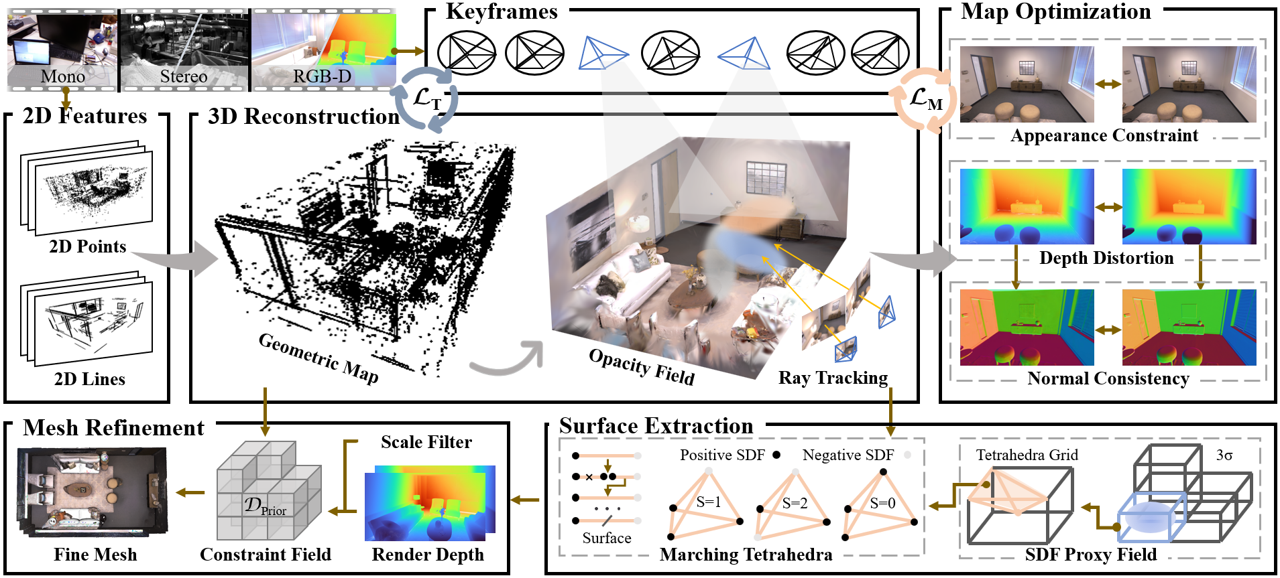
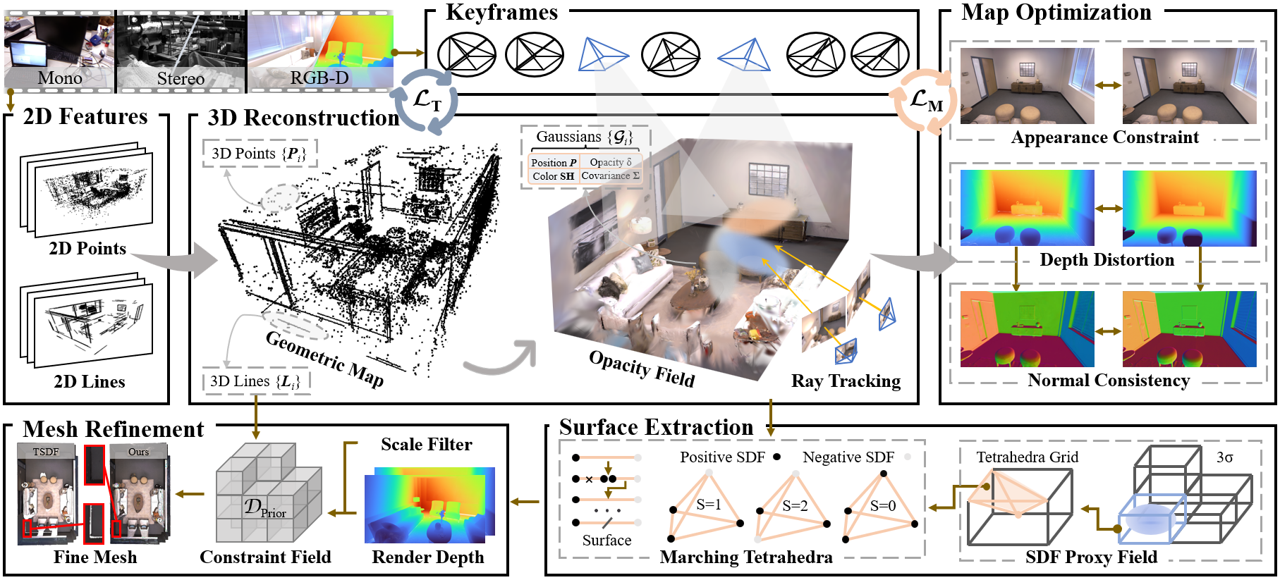
update gif

diff --git a/index.html b/index.html
@@ -543,7 +543,7 @@
             
             .image-row img {
                 flex: 1; /* 等分宽度 */
-                height: 200px; /* 固定高度 */
+                height: 250px; /* 固定高度 */
                 object-fit: cover; /* 保持图片比例并填充容器 */
                 width: 100%; /* 宽度自适应 */
             }
@@ -551,10 +551,10 @@
         </head>
         <body>
         <div class="image-row">
-            <img src="img/replica/office0_mesh.png" alt="office0">
-            <img src="img/replica/office3_mesh.png" alt="office3">
-            <img src="img/replica/office4_mesh.png" alt="office4">
-            <img src="img/replica/room0_mesh.png" alt="room0">
+            <img src="img/replica/office0.gif" alt="office0">
+            <img src="img/replica/office3.gif" alt="office3">
+            <img src="img/replica/office4.gif" alt="office4">
+            <img src="img/replica/room0.gif" alt="room0">
         </div>
         </body>
 